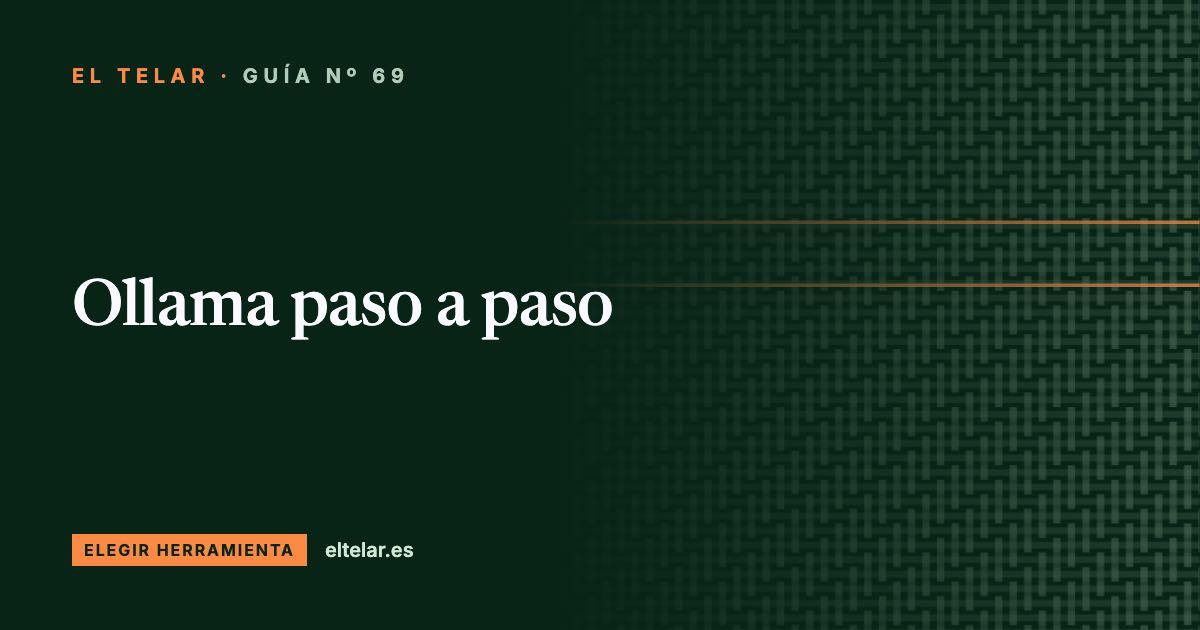
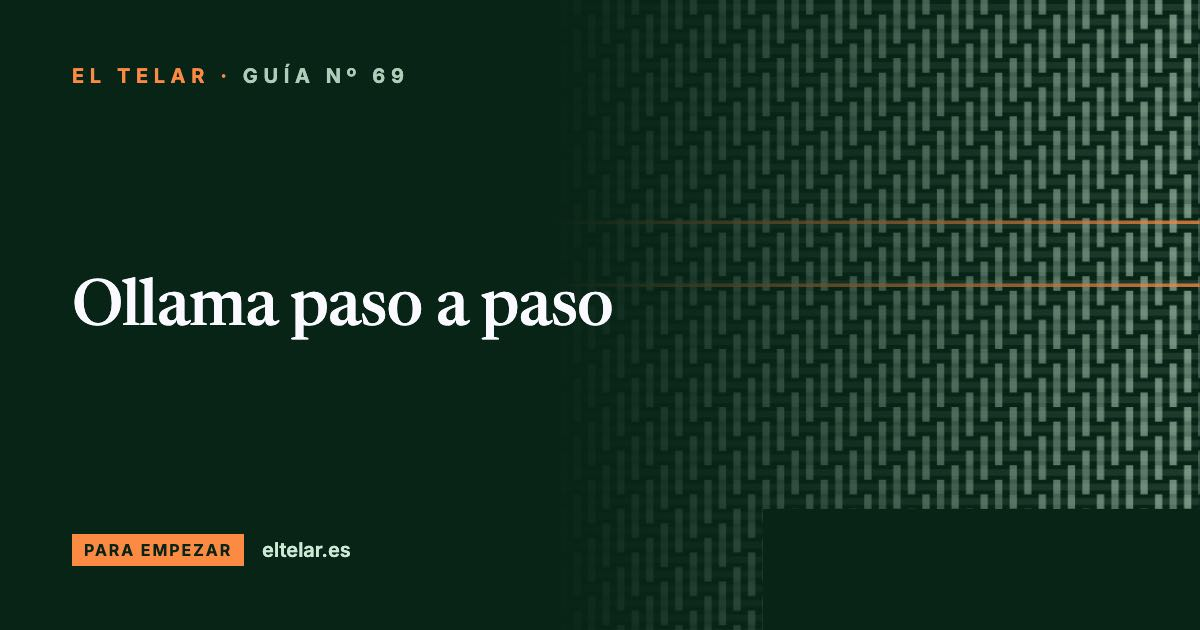
Actualizar web

Changed region(s): [[0.6475, 0.0, 1.0, 1.0], [0.0617, 0.8444, 0.3392, 0.9048]]

diff --git a/index.html b/index.html
@@ -277,7 +277,7 @@ Contrato:
           Explicaciones claras, código riguroso cuando hace falta y cero tecnicismos artificiales. Diseñadas para aplicar en minutos.
         </p>
 </div>
-<div class="gq-wrap"><span class="material-symbols-outlined" aria-hidden="true">search</span><input id="guide-q" type="search" autocomplete="off" placeholder="¿Qué quieres aprender? Ej.: crear un agente, proteger mis datos" aria-label="Buscar entre las guías"/></div><p id="gq-note" class="gq-note" hidden></p><div id="guide-filters" class="flex flex-wrap gap-2 mb-2" role="group" aria-label="Filtrar guías por tema"><button type="button" data-filter="" aria-pressed="true" class="guide-chip px-3 py-1.5 border text-[11px] font-semibold uppercase tracking-widest transition-colors">Todas (62)</button><button type="button" data-filter="Para empezar" aria-pressed="false" class="guide-chip px-3 py-1.5 border text-[11px] font-semibold uppercase tracking-widest transition-colors">Para empezar (11)</button><button type="button" data-filter="Agentes y automatización" aria-pressed="false" class="guide-chip px-3 py-1.5 border text-[11px] font-semibold uppercase tracking-widest transition-colors">Agentes y automatización (16)</button><button type="button" data-filter="Elegir herramienta" aria-pressed="false" class="guide-chip px-3 py-1.5 border text-[11px] font-semibold uppercase tracking-widest transition-colors">Elegir herramienta (11)</button><button type="button" data-filter="Seguridad y privacidad" aria-pressed="false" class="guide-chip px-3 py-1.5 border text-[11px] font-semibold uppercase tracking-widest transition-colors">Seguridad y privacidad (10)</button><button type="button" data-filter="Crear contenido" aria-pressed="false" class="guide-chip px-3 py-1.5 border text-[11px] font-semibold uppercase tracking-widest transition-colors">Crear contenido (5)</button><button type="button" data-filter="Trabajo, estudio y dinero" aria-pressed="false" class="guide-chip px-3 py-1.5 border text-[11px] font-semibold uppercase tracking-widest transition-colors">Trabajo, estudio y dinero (9)</button></div>
+<div class="gq-wrap"><span class="material-symbols-outlined" aria-hidden="true">search</span><input id="guide-q" type="search" autocomplete="off" placeholder="¿Qué quieres aprender? Ej.: crear un agente, proteger mis datos" aria-label="Buscar entre las guías"/></div><p id="gq-note" class="gq-note" hidden></p><div id="guide-filters" class="flex flex-wrap gap-2 mb-2" role="group" aria-label="Filtrar guías por tema"><button type="button" data-filter="" aria-pressed="true" class="guide-chip px-3 py-1.5 border text-[11px] font-semibold uppercase tracking-widest transition-colors">Todas (62)</button><button type="button" data-filter="Para empezar" aria-pressed="false" class="guide-chip px-3 py-1.5 border text-[11px] font-semibold uppercase tracking-widest transition-colors">Para empezar (11)</button><button type="button" data-filter="Agentes y automatización" aria-pressed="false" class="guide-chip px-3 py-1.5 border text-[11px] font-semibold uppercase tracking-widest transition-colors">Agentes y automatización (16)</button><button type="button" data-filter="Claude Code" aria-pressed="false" class="guide-chip px-3 py-1.5 border text-[11px] font-semibold uppercase tracking-widest transition-colors">Claude Code (11)</button><button type="button" data-filter="Elegir herramienta" aria-pressed="false" class="guide-chip px-3 py-1.5 border text-[11px] font-semibold uppercase tracking-widest transition-colors">Elegir herramienta (11)</button><button type="button" data-filter="Seguridad y privacidad" aria-pressed="false" class="guide-chip px-3 py-1.5 border text-[11px] font-semibold uppercase tracking-widest transition-colors">Seguridad y privacidad (10)</button><button type="button" data-filter="Crear contenido" aria-pressed="false" class="guide-chip px-3 py-1.5 border text-[11px] font-semibold uppercase tracking-widest transition-colors">Crear contenido (5)</button><button type="button" data-filter="Trabajo, estudio y dinero" aria-pressed="false" class="guide-chip px-3 py-1.5 border text-[11px] font-semibold uppercase tracking-widest transition-colors">Trabajo, estudio y dinero (9)</button></div>
 <div id="guide-grid" class="grid grid-cols-1 md:grid-cols-2 lg:grid-cols-3 gap-x-10">
 <article data-cat="Agentes y automatización" class="guide-card flex flex-col justify-between group border-t border-border-rule pt-8 pb-10" style="--topic:#9b4500" data-icon="credit_card"><a class="guide-thumb block mb-5 overflow-hidden" href="articulos/agentes-que-pagan-por-ti.html" tabindex="-1" aria-hidden="true"><img src="img/portadas/agentes-que-pagan-por-ti.svg" alt="" width="1600" height="520" loading="lazy" decoding="async" class="w-full h-24 object-cover object-right transition-transform duration-500 group-hover:scale-105"/></a>
 <div>
@@ -302,10 +302,10 @@ Contrato:
 <span class="text-charcoal-muted font-serif italic text-xs">Ref. #71</span>
 </div>
 </article>
-<article data-cat="Elegir herramienta" class="guide-card flex flex-col justify-between group border-t border-border-rule pt-8 pb-10" style="--topic:#486554" data-icon="terminal"><a class="guide-thumb block mb-5 overflow-hidden" href="articulos/comandos-claude-code.html" tabindex="-1" aria-hidden="true"><img src="img/portadas/comandos-claude-code.svg" alt="" width="1600" height="520" loading="lazy" decoding="async" class="w-full h-24 object-cover object-right transition-transform duration-500 group-hover:scale-105"/></a>
+<article data-cat="Claude Code" class="guide-card flex flex-col justify-between group border-t border-border-rule pt-8 pb-10" style="--topic:#b4531a" data-icon="terminal"><a class="guide-thumb block mb-5 overflow-hidden" href="articulos/comandos-claude-code.html" tabindex="-1" aria-hidden="true"><img src="img/portadas/comandos-claude-code.svg" alt="" width="1600" height="520" loading="lazy" decoding="async" class="w-full h-24 object-cover object-right transition-transform duration-500 group-hover:scale-105"/></a>
 <div>
 <div class="flex items-center justify-between text-[11px] font-sans uppercase tracking-widest mb-3 text-charcoal-muted">
-<span class="guide-topic font-semibold pb-0.5 inline-flex items-center gap-1"><span class="material-symbols-outlined text-[15px]" aria-hidden="true">terminal</span>Elegir</span>
+<span class="guide-topic font-semibold pb-0.5 inline-flex items-center gap-1"><span class="material-symbols-outlined text-[15px]" aria-hidden="true">terminal</span>Claude Code</span>
 <span class="font-serif italic text-xs">5 min de lectura</span>
 </div>
 <a class="block group-hover:text-emerald-racing transition-colors" href="articulos/comandos-claude-code.html">
@@ -325,10 +325,10 @@ Contrato:
 <span class="text-charcoal-muted font-serif italic text-xs">Ref. #70</span>
 </div>
 </article>
-<article data-cat="Elegir herramienta" class="guide-card flex flex-col justify-between group border-t border-border-rule pt-8 pb-10" style="--topic:#486554" data-icon="computer"><a class="guide-thumb block mb-5 overflow-hidden" href="articulos/ollama-paso-a-paso.html" tabindex="-1" aria-hidden="true"><img src="img/portadas/ollama-paso-a-paso.svg" alt="" width="1600" height="520" loading="lazy" decoding="async" class="w-full h-24 object-cover object-right transition-transform duration-500 group-hover:scale-105"/></a>
+<article data-cat="Para empezar" class="guide-card flex flex-col justify-between group border-t border-border-rule pt-8 pb-10" style="--topic:#072417" data-icon="computer"><a class="guide-thumb block mb-5 overflow-hidden" href="articulos/ollama-paso-a-paso.html" tabindex="-1" aria-hidden="true"><img src="img/portadas/ollama-paso-a-paso.svg" alt="" width="1600" height="520" loading="lazy" decoding="async" class="w-full h-24 object-cover object-right transition-transform duration-500 group-hover:scale-105"/></a>
 <div>
 <div class="flex items-center justify-between text-[11px] font-sans uppercase tracking-widest mb-3 text-charcoal-muted">
-<span class="guide-topic font-semibold pb-0.5 inline-flex items-center gap-1"><span class="material-symbols-outlined text-[15px]" aria-hidden="true">computer</span>Elegir</span>
+<span class="guide-topic font-semibold pb-0.5 inline-flex items-center gap-1"><span class="material-symbols-outlined text-[15px]" aria-hidden="true">computer</span>Para empezar</span>
 <span class="font-serif italic text-xs">5 min de lectura</span>
 </div>
 <a class="block group-hover:text-emerald-racing transition-colors" href="articulos/ollama-paso-a-paso.html">
@@ -371,10 +371,10 @@ Contrato:
 <span class="text-charcoal-muted font-serif italic text-xs">Ref. #68</span>
 </div>
 </article>
-<article data-cat="Elegir herramienta" class="guide-card flex flex-col justify-between group border-t border-border-rule pt-8 pb-10" style="--topic:#486554" data-icon="memory"><a class="guide-thumb block mb-5 overflow-hidden" href="articulos/claude-code-con-ollama-modelos-locales.html" tabindex="-1" aria-hidden="true"><img src="img/portadas/claude-code-con-ollama-modelos-locales.svg" alt="" width="1600" height="520" loading="lazy" decoding="async" class="w-full h-24 object-cover object-right transition-transform duration-500 group-hover:scale-105"/></a>
+<article data-cat="Claude Code" class="guide-card flex flex-col justify-between group border-t border-border-rule pt-8 pb-10" style="--topic:#b4531a" data-icon="memory"><a class="guide-thumb block mb-5 overflow-hidden" href="articulos/claude-code-con-ollama-modelos-locales.html" tabindex="-1" aria-hidden="true"><img src="img/portadas/claude-code-con-ollama-modelos-locales.svg" alt="" width="1600" height="520" loading="lazy" decoding="async" class="w-full h-24 object-cover object-right transition-transform duration-500 group-hover:scale-105"/></a>
 <div>
 <div class="flex items-center justify-between text-[11px] font-sans uppercase tracking-widest mb-3 text-charcoal-muted">
-<span class="guide-topic font-semibold pb-0.5 inline-flex items-center gap-1"><span class="material-symbols-outlined text-[15px]" aria-hidden="true">memory</span>Elegir</span>
+<span class="guide-topic font-semibold pb-0.5 inline-flex items-center gap-1"><span class="material-symbols-outlined text-[15px]" aria-hidden="true">memory</span>Claude Code</span>
 <span class="font-serif italic text-xs">5 min de lectura</span>
 </div>
 <a class="block group-hover:text-emerald-racing transition-colors" href="articulos/claude-code-con-ollama-modelos-locales.html">
@@ -394,10 +394,10 @@ Contrato:
 <span class="text-charcoal-muted font-serif italic text-xs">Ref. #67</span>
 </div>
 </article>
-<article data-cat="Elegir herramienta" class="guide-card flex flex-col justify-between group border-t border-border-rule pt-8 pb-10" style="--topic:#486554" data-icon="download"><a class="guide-thumb block mb-5 overflow-hidden" href="articulos/instalar-claude-code.html" tabindex="-1" aria-hidden="true"><img src="img/portadas/instalar-claude-code.svg" alt="" width="1600" height="520" loading="lazy" decoding="async" class="w-full h-24 object-cover object-right transition-transform duration-500 group-hover:scale-105"/></a>
+<article data-cat="Claude Code" class="guide-card flex flex-col justify-between group border-t border-border-rule pt-8 pb-10" style="--topic:#b4531a" data-icon="download"><a class="guide-thumb block mb-5 overflow-hidden" href="articulos/instalar-claude-code.html" tabindex="-1" aria-hidden="true"><img src="img/portadas/instalar-claude-code.svg" alt="" width="1600" height="520" loading="lazy" decoding="async" class="w-full h-24 object-cover object-right transition-transform duration-500 group-hover:scale-105"/></a>
 <div>
 <div class="flex items-center justify-between text-[11px] font-sans uppercase tracking-widest mb-3 text-charcoal-muted">
-<span class="guide-topic font-semibold pb-0.5 inline-flex items-center gap-1"><span class="material-symbols-outlined text-[15px]" aria-hidden="true">download</span>Elegir</span>
+<span class="guide-topic font-semibold pb-0.5 inline-flex items-center gap-1"><span class="material-symbols-outlined text-[15px]" aria-hidden="true">download</span>Claude Code</span>
 <span class="font-serif italic text-xs">5 min de lectura</span>
 </div>
 <a class="block group-hover:text-emerald-racing transition-colors" href="articulos/instalar-claude-code.html">
@@ -440,10 +440,10 @@ Contrato:
 <span class="text-charcoal-muted font-serif italic text-xs">Ref. #65</span>
 </div>
 </article>
-<article data-cat="Elegir herramienta" class="guide-card flex flex-col justify-between group border-t border-border-rule pt-8 pb-10" style="--topic:#486554" data-icon="timer"><a class="guide-thumb block mb-5 overflow-hidden" href="articulos/limite-uso-claude-code.html" tabindex="-1" aria-hidden="true"><img src="img/portadas/limite-uso-claude-code.svg" alt="" width="1600" height="520" loading="lazy" decoding="async" class="w-full h-24 object-cover object-right transition-transform duration-500 group-hover:scale-105"/></a>
+<article data-cat="Claude Code" class="guide-card flex flex-col justify-between group border-t border-border-rule pt-8 pb-10" style="--topic:#b4531a" data-icon="timer"><a class="guide-thumb block mb-5 overflow-hidden" href="articulos/limite-uso-claude-code.html" tabindex="-1" aria-hidden="true"><img src="img/portadas/limite-uso-claude-code.svg" alt="" width="1600" height="520" loading="lazy" decoding="async" class="w-full h-24 object-cover object-right transition-transform duration-500 group-hover:scale-105"/></a>
 <div>
 <div class="flex items-center justify-between text-[11px] font-sans uppercase tracking-widest mb-3 text-charcoal-muted">
-<span class="guide-topic font-semibold pb-0.5 inline-flex items-center gap-1"><span class="material-symbols-outlined text-[15px]" aria-hidden="true">timer</span>Elegir</span>
+<span class="guide-topic font-semibold pb-0.5 inline-flex items-center gap-1"><span class="material-symbols-outlined text-[15px]" aria-hidden="true">timer</span>Claude Code</span>
 <span class="font-serif italic text-xs">6 min de lectura</span>
 </div>
 <a class="block group-hover:text-emerald-racing transition-colors" href="articulos/limite-uso-claude-code.html">
@@ -463,10 +463,10 @@ Contrato:
 <span class="text-charcoal-muted font-serif italic text-xs">Ref. #64</span>
 </div>
 </article>
-<article data-cat="Elegir herramienta" class="guide-card flex flex-col justify-between group border-t border-border-rule pt-8 pb-10" style="--topic:#486554" data-icon="description"><a class="guide-thumb block mb-5 overflow-hidden" href="articulos/claude-md-que-es-como-escribirlo.html" tabindex="-1" aria-hidden="true"><img src="img/portadas/claude-md-que-es-como-escribirlo.svg" alt="" width="1600" height="520" loading="lazy" decoding="async" class="w-full h-24 object-cover object-right transition-transform duration-500 group-hover:scale-105"/></a>
+<article data-cat="Claude Code" class="guide-card flex flex-col justify-between group border-t border-border-rule pt-8 pb-10" style="--topic:#b4531a" data-icon="description"><a class="guide-thumb block mb-5 overflow-hidden" href="articulos/claude-md-que-es-como-escribirlo.html" tabindex="-1" aria-hidden="true"><img src="img/portadas/claude-md-que-es-como-escribirlo.svg" alt="" width="1600" height="520" loading="lazy" decoding="async" class="w-full h-24 object-cover object-right transition-transform duration-500 group-hover:scale-105"/></a>
 <div>
 <div class="flex items-center justify-between text-[11px] font-sans uppercase tracking-widest mb-3 text-charcoal-muted">
-<span class="guide-topic font-semibold pb-0.5 inline-flex items-center gap-1"><span class="material-symbols-outlined text-[15px]" aria-hidden="true">description</span>Elegir</span>
+<span class="guide-topic font-semibold pb-0.5 inline-flex items-center gap-1"><span class="material-symbols-outlined text-[15px]" aria-hidden="true">description</span>Claude Code</span>
 <span class="font-serif italic text-xs">5 min de lectura</span>
 </div>
 <a class="block group-hover:text-emerald-racing transition-colors" href="articulos/claude-md-que-es-como-escribirlo.html">
@@ -486,10 +486,10 @@ Contrato:
 <span class="text-charcoal-muted font-serif italic text-xs">Ref. #72</span>
 </div>
 </article>
-<article data-cat="Elegir herramienta" class="guide-card flex flex-col justify-between group border-t border-border-rule pt-8 pb-10" style="--topic:#486554" data-icon="extension"><a class="guide-thumb block mb-5 overflow-hidden" href="articulos/mcp-claude-code-que-es-como-instalar.html" tabindex="-1" aria-hidden="true"><img src="img/portadas/mcp-claude-code-que-es-como-instalar.svg" alt="" width="1600" height="520" loading="lazy" decoding="async" class="w-full h-24 object-cover object-right transition-transform duration-500 group-hover:scale-105"/></a>
+<article data-cat="Claude Code" class="guide-card flex flex-col justify-between group border-t border-border-rule pt-8 pb-10" style="--topic:#b4531a" data-icon="extension"><a class="guide-thumb block mb-5 overflow-hidden" href="articulos/mcp-claude-code-que-es-como-instalar.html" tabindex="-1" aria-hidden="true"><img src="img/portadas/mcp-claude-code-que-es-como-instalar.svg" alt="" width="1600" height="520" loading="lazy" decoding="async" class="w-full h-24 object-cover object-right transition-transform duration-500 group-hover:scale-105"/></a>
 <div>
 <div class="flex items-center justify-between text-[11px] font-sans uppercase tracking-widest mb-3 text-charcoal-muted">
-<span class="guide-topic font-semibold pb-0.5 inline-flex items-center gap-1"><span class="material-symbols-outlined text-[15px]" aria-hidden="true">extension</span>Elegir</span>
+<span class="guide-topic font-semibold pb-0.5 inline-flex items-center gap-1"><span class="material-symbols-outlined text-[15px]" aria-hidden="true">extension</span>Claude Code</span>
 <span class="font-serif italic text-xs">5 min de lectura</span>
 </div>
 <a class="block group-hover:text-emerald-racing transition-colors" href="articulos/mcp-claude-code-que-es-como-instalar.html">
@@ -509,10 +509,10 @@ Contrato:
 <span class="text-charcoal-muted font-serif italic text-xs">Ref. #73</span>
 </div>
 </article>
-<article data-cat="Elegir herramienta" class="guide-card flex flex-col justify-between group border-t border-border-rule pt-8 pb-10" style="--topic:#486554" data-icon="code"><a class="guide-thumb block mb-5 overflow-hidden" href="articulos/claude-code-en-vs-code.html" tabindex="-1" aria-hidden="true"><img src="img/portadas/claude-code-en-vs-code.svg" alt="" width="1600" height="520" loading="lazy" decoding="async" class="w-full h-24 object-cover object-right transition-transform duration-500 group-hover:scale-105"/></a>
+<article data-cat="Claude Code" class="guide-card flex flex-col justify-between group border-t border-border-rule pt-8 pb-10" style="--topic:#b4531a" data-icon="code"><a class="guide-thumb block mb-5 overflow-hidden" href="articulos/claude-code-en-vs-code.html" tabindex="-1" aria-hidden="true"><img src="img/portadas/claude-code-en-vs-code.svg" alt="" width="1600" height="520" loading="lazy" decoding="async" class="w-full h-24 object-cover object-right transition-transform duration-500 group-hover:scale-105"/></a>
 <div>
 <div class="flex items-center justify-between text-[11px] font-sans uppercase tracking-widest mb-3 text-charcoal-muted">
-<span class="guide-topic font-semibold pb-0.5 inline-flex items-center gap-1"><span class="material-symbols-outlined text-[15px]" aria-hidden="true">code</span>Elegir</span>
+<span class="guide-topic font-semibold pb-0.5 inline-flex items-center gap-1"><span class="material-symbols-outlined text-[15px]" aria-hidden="true">code</span>Claude Code</span>
 <span class="font-serif italic text-xs">5 min de lectura</span>
 </div>
 <a class="block group-hover:text-emerald-racing transition-colors" href="articulos/claude-code-en-vs-code.html">
@@ -532,10 +532,10 @@ Contrato:
 <span class="text-charcoal-muted font-serif italic text-xs">Ref. #74</span>
 </div>
 </article>
-<article data-cat="Elegir herramienta" class="guide-card flex flex-col justify-between group border-t border-border-rule pt-8 pb-10" style="--topic:#486554" data-icon="webhook"><a class="guide-thumb block mb-5 overflow-hidden" href="articulos/hooks-claude-code-que-son-ejemplos.html" tabindex="-1" aria-hidden="true"><img src="img/portadas/hooks-claude-code-que-son-ejemplos.svg" alt="" width="1600" height="520" loading="lazy" decoding="async" class="w-full h-24 object-cover object-right transition-transform duration-500 group-hover:scale-105"/></a>
+<article data-cat="Claude Code" class="guide-card flex flex-col justify-between group border-t border-border-rule pt-8 pb-10" style="--topic:#b4531a" data-icon="webhook"><a class="guide-thumb block mb-5 overflow-hidden" href="articulos/hooks-claude-code-que-son-ejemplos.html" tabindex="-1" aria-hidden="true"><img src="img/portadas/hooks-claude-code-que-son-ejemplos.svg" alt="" width="1600" height="520" loading="lazy" decoding="async" class="w-full h-24 object-cover object-right transition-transform duration-500 group-hover:scale-105"/></a>
 <div>
 <div class="flex items-center justify-between text-[11px] font-sans uppercase tracking-widest mb-3 text-charcoal-muted">
-<span class="guide-topic font-semibold pb-0.5 inline-flex items-center gap-1"><span class="material-symbols-outlined text-[15px]" aria-hidden="true">webhook</span>Elegir</span>
+<span class="guide-topic font-semibold pb-0.5 inline-flex items-center gap-1"><span class="material-symbols-outlined text-[15px]" aria-hidden="true">webhook</span>Claude Code</span>
 <span class="font-serif italic text-xs">6 min de lectura</span>
 </div>
 <a class="block group-hover:text-emerald-racing transition-colors" href="articulos/hooks-claude-code-que-son-ejemplos.html">
@@ -555,10 +555,10 @@ Contrato:
 <span class="text-charcoal-muted font-serif italic text-xs">Ref. #75</span>
 </div>
 </article>
-<article data-cat="Elegir herramienta" class="guide-card flex flex-col justify-between group border-t border-border-rule pt-8 pb-10" style="--topic:#486554" data-icon="groups"><a class="guide-thumb block mb-5 overflow-hidden" href="articulos/subagentes-claude-code-como-crear.html" tabindex="-1" aria-hidden="true"><img src="img/portadas/subagentes-claude-code-como-crear.svg" alt="" width="1600" height="520" loading="lazy" decoding="async" class="w-full h-24 object-cover object-right transition-transform duration-500 group-hover:scale-105"/></a>
+<article data-cat="Claude Code" class="guide-card flex flex-col justify-between group border-t border-border-rule pt-8 pb-10" style="--topic:#b4531a" data-icon="groups"><a class="guide-thumb block mb-5 overflow-hidden" href="articulos/subagentes-claude-code-como-crear.html" tabindex="-1" aria-hidden="true"><img src="img/portadas/subagentes-claude-code-como-crear.svg" alt="" width="1600" height="520" loading="lazy" decoding="async" class="w-full h-24 object-cover object-right transition-transform duration-500 group-hover:scale-105"/></a>
 <div>
 <div class="flex items-center justify-between text-[11px] font-sans uppercase tracking-widest mb-3 text-charcoal-muted">
-<span class="guide-topic font-semibold pb-0.5 inline-flex items-center gap-1"><span class="material-symbols-outlined text-[15px]" aria-hidden="true">groups</span>Elegir</span>
+<span class="guide-topic font-semibold pb-0.5 inline-flex items-center gap-1"><span class="material-symbols-outlined text-[15px]" aria-hidden="true">groups</span>Claude Code</span>
 <span class="font-serif italic text-xs">5 min de lectura</span>
 </div>
 <a class="block group-hover:text-emerald-racing transition-colors" href="articulos/subagentes-claude-code-como-crear.html">
@@ -578,10 +578,10 @@ Contrato:
 <span class="text-charcoal-muted font-serif italic text-xs">Ref. #76</span>
 </div>
 </article>
-<article data-cat="Elegir herramienta" class="guide-card flex flex-col justify-between group border-t border-border-rule pt-8 pb-10" style="--topic:#486554" data-icon="bolt"><a class="guide-thumb block mb-5 overflow-hidden" href="articulos/claude-code-modelos-gratis-freellmapi.html" tabindex="-1" aria-hidden="true"><img src="img/portadas/claude-code-modelos-gratis-freellmapi.svg" alt="" width="1600" height="520" loading="lazy" decoding="async" class="w-full h-24 object-cover object-right transition-transform duration-500 group-hover:scale-105"/></a>
+<article data-cat="Claude Code" class="guide-card flex flex-col justify-between group border-t border-border-rule pt-8 pb-10" style="--topic:#b4531a" data-icon="bolt"><a class="guide-thumb block mb-5 overflow-hidden" href="articulos/claude-code-modelos-gratis-freellmapi.html" tabindex="-1" aria-hidden="true"><img src="img/portadas/claude-code-modelos-gratis-freellmapi.svg" alt="" width="1600" height="520" loading="lazy" decoding="async" class="w-full h-24 object-cover object-right transition-transform duration-500 group-hover:scale-105"/></a>
 <div>
 <div class="flex items-center justify-between text-[11px] font-sans uppercase tracking-widest mb-3 text-charcoal-muted">
-<span class="guide-topic font-semibold pb-0.5 inline-flex items-center gap-1"><span class="material-symbols-outlined text-[15px]" aria-hidden="true">bolt</span>Elegir</span>
+<span class="guide-topic font-semibold pb-0.5 inline-flex items-center gap-1"><span class="material-symbols-outlined text-[15px]" aria-hidden="true">bolt</span>Claude Code</span>
 <span class="font-serif italic text-xs">5 min de lectura</span>
 </div>
 <a class="block group-hover:text-emerald-racing transition-colors" href="articulos/claude-code-modelos-gratis-freellmapi.html">
@@ -1429,7 +1429,7 @@ Contrato:
 <span class="text-charcoal-muted font-serif italic text-xs">Ref. #27</span>
 </div>
 </article>
-<article data-cat="Elegir herramienta" class="guide-card flex flex-col justify-between group border-t border-border-rule pt-8 pb-10" style="--topic:#486554" data-icon="compare_arrows"><a class="guide-thumb block mb-5 overflow-hidden" href="articulos/mejores-claude-skills.html" tabindex="-1" aria-hidden="true"><img src="img/portadas/mejores-claude-skills.svg" alt="" width="1600" height="520" loading="lazy" decoding="async" class="w-full h-24 object-cover object-right transition-transform duration-500 group-hover:scale-105"/></a>
+<article data-cat="Claude Code" class="guide-card flex flex-col justify-between group border-t border-border-rule pt-8 pb-10" style="--topic:#b4531a" data-icon="compare_arrows"><a class="guide-thumb block mb-5 overflow-hidden" href="articulos/mejores-claude-skills.html" tabindex="-1" aria-hidden="true"><img src="img/portadas/mejores-claude-skills.svg" alt="" width="1600" height="520" loading="lazy" decoding="async" class="w-full h-24 object-cover object-right transition-transform duration-500 group-hover:scale-105"/></a>
 <div>
 <div class="flex items-center justify-between text-[11px] font-sans uppercase tracking-widest mb-3 text-charcoal-muted">
 <span class="guide-topic font-semibold pb-0.5 inline-flex items-center gap-1"><span class="material-symbols-outlined text-[15px]" aria-hidden="true">compare_arrows</span>Herramientas</span>
@@ -2004,7 +2004,7 @@ Contrato:
 <span class="text-charcoal-muted font-serif italic text-xs">Ref. #02</span>
 </div>
 </article>
-<article data-cat="Para empezar" class="guide-card flex flex-col justify-between group border-t border-border-rule pt-8 pb-10" style="--topic:#072417" data-icon="school"><a class="guide-thumb block mb-5 overflow-hidden" href="articulos/que-es-claude-code.html" tabindex="-1" aria-hidden="true"><img src="img/portadas/que-es-claude-code.svg" alt="" width="1600" height="520" loading="lazy" decoding="async" class="w-full h-24 object-cover object-right transition-transform duration-500 group-hover:scale-105"/></a>
+<article data-cat="Claude Code" class="guide-card flex flex-col justify-between group border-t border-border-rule pt-8 pb-10" style="--topic:#b4531a" data-icon="school"><a class="guide-thumb block mb-5 overflow-hidden" href="articulos/que-es-claude-code.html" tabindex="-1" aria-hidden="true"><img src="img/portadas/que-es-claude-code.svg" alt="" width="1600" height="520" loading="lazy" decoding="async" class="w-full h-24 object-cover object-right transition-transform duration-500 group-hover:scale-105"/></a>
 <div>
 <div class="flex items-center justify-between text-[11px] font-sans uppercase tracking-widest mb-3 text-charcoal-muted">
 <span class="guide-topic font-semibold pb-0.5 inline-flex items-center gap-1"><span class="material-symbols-outlined text-[15px]" aria-hidden="true">school</span>Empezar</span>
